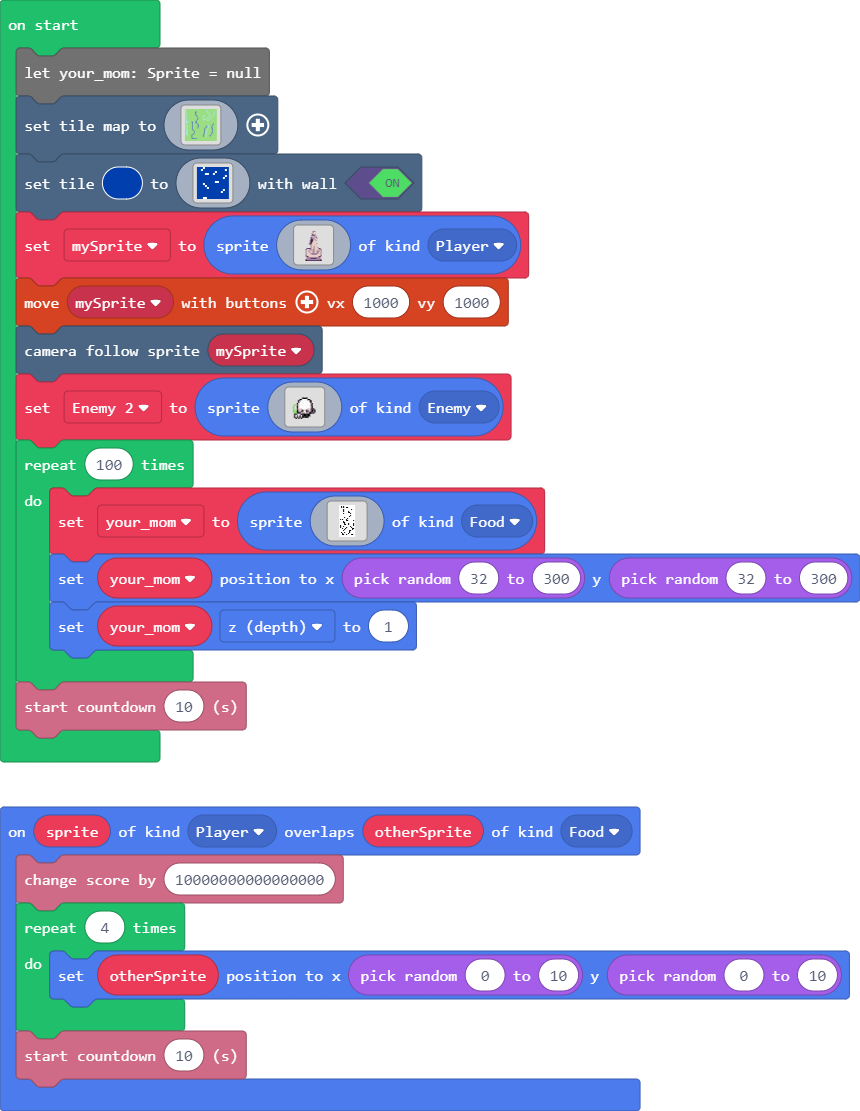
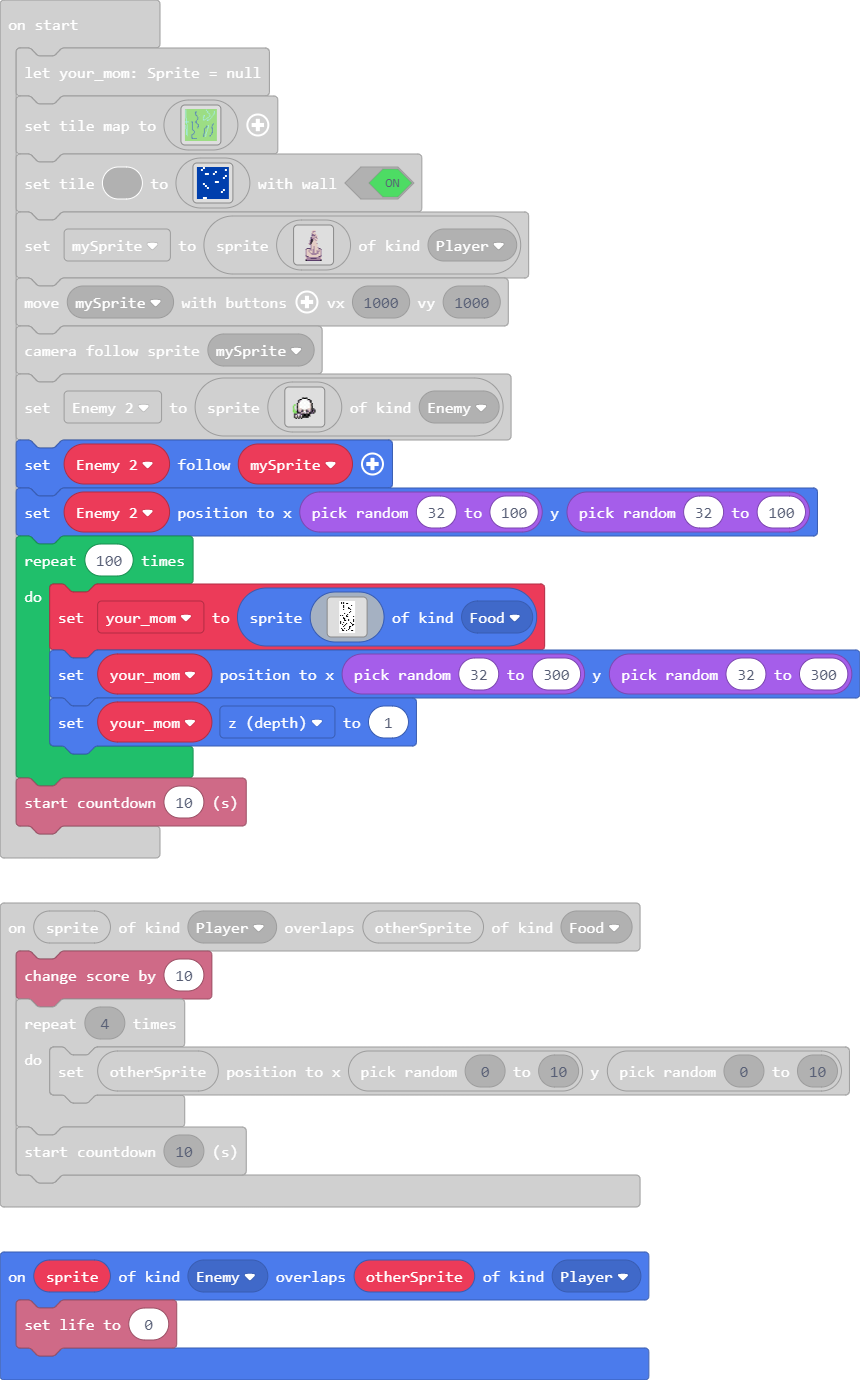
made new enemy

diff --git a/main.ts b/main.ts
@@ -1,5 +1,8 @@
+sprites.onOverlap(SpriteKind.Enemy, SpriteKind.Player, function (sprite, otherSprite) {
+    info.setLife(0)
+})
 sprites.onOverlap(SpriteKind.Player, SpriteKind.Food, function (sprite, otherSprite) {
-    info.changeScoreBy(10000000000000000)
+    info.changeScoreBy(10)
     for (let index = 0; index < 4; index++) {
         otherSprite.setPosition(Math.randomRange(0, 10), Math.randomRange(0, 10))
     }
@@ -136,6 +139,8 @@ let Enemy_2 = sprites.create(img`
 . . . . . . . . . . . . . . . . . . . . . . . . 
 . . . . . . . . . . . . . . . . . . . . . . . . 
 `, SpriteKind.Enemy)
+Enemy_2.follow(mySprite)
+Enemy_2.setPosition(Math.randomRange(32, 100), Math.randomRange(32, 100))
 for (let index = 0; index < 100; index++) {
     your_mom = sprites.create(img`
 1 1 1 1 1 1 1 1 1 1 1 1 1 1 1 1 
